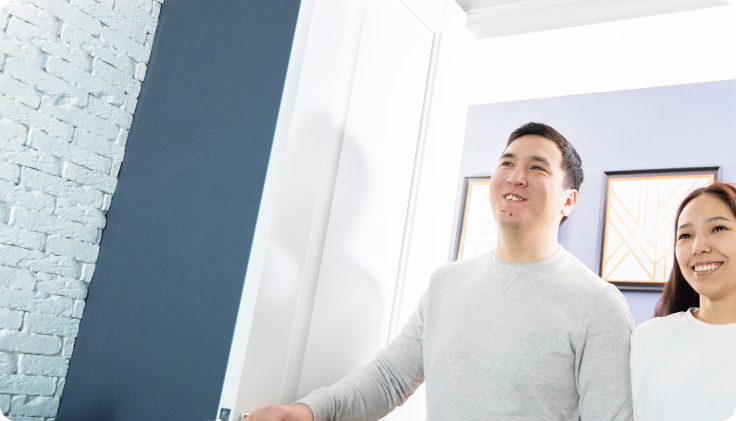
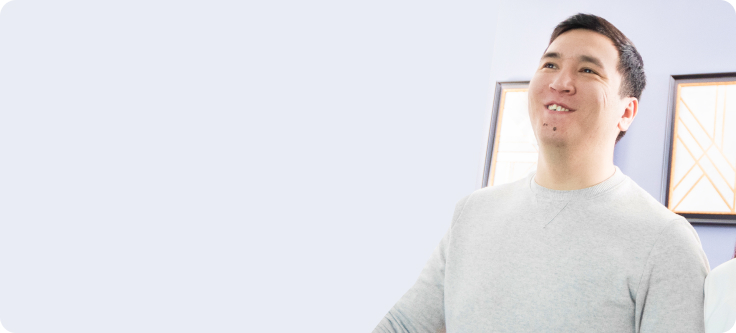
bonus html done

diff --git a/src/css/_media.scss b/src/css/_media.scss
@@ -118,6 +118,9 @@
         line-height: 45px;
     }
     .myremont{
+        &__accordions-item{
+            padding: 16px;
+        }
         &__inner{
             display: block;
         }
@@ -126,6 +129,24 @@
             width: 100%;
             min-width: unset;
             padding: 0;
+            &::-webkit-scrollbar-thumb {
+            background: #DDDFE5;
+            border-radius: 4px;
+            }
+    
+            &::-webkit-scrollbar-corner {
+                border-radius: 4px;
+            }
+    
+            &::-webkit-scrollbar-track {
+                border-radius: 4px;
+                background: #F6F6F9;
+            }
+    
+            &::-webkit-scrollbar {
+                height: 6px;
+                border-radius: 4px;
+            }
             &-list{
                 width: max-content;
                 padding: 15px;
@@ -346,16 +367,6 @@
     }
     .banners{
         &__slider{
-            &::after{
-                content: '';
-                width: 100%;
-                height: 100%;
-                position: absolute;
-                left: 0;
-                top: 0;
-                background: linear-gradient(84.2deg, rgba(33, 52, 69, 0.7) 23.77%, rgba(33, 52, 69, 0) 81.09%);
-                border-radius: 16px;
-            }
             .slider-arrow{
                 position: absolute;
                 right: 40px;
@@ -369,13 +380,11 @@
                 }
             }
             &-item{
-                color: #FFF;
                 .title{
                     margin-bottom: 8px;
                 }
                 p{
                     max-width: 385px;
-                    color: #FFF;
                     font-size: 18px;
                     line-height: 27px;
                 }
@@ -633,6 +642,17 @@
     }
 }
 @media (max-width: 600px){
+    .banners{
+        &__slider{
+            &-item{
+                background-color: #E9ECF4;
+            }
+            &-image{
+                display: none;
+            }
+        }
+    }
+
     .b-title{
         font-size: 20px;
         line-height: 25px;
@@ -772,6 +792,7 @@
             bottom: 0;
             left: 0;
             margin-top: 0;
+            display: table !important;
         }
     }
 }
@@ -958,6 +979,16 @@
 }
 
 @media (max-width: 425px){
+    .myremont{
+        &__accordions{
+            &-item{
+                .accordion-btn{
+                    font-size: 16px;
+                    line-height: 20px;
+                }
+            }
+        }
+    }
     .chooseplan{
         &__form{
             &-row{
@@ -1058,21 +1089,13 @@
     .banners{
         &__slider{
             padding-bottom: 48px;
-            &::after{
-                height: calc(100% - 48px);
-            }
             &-item{
+                display: flex;
+                flex-direction: column;
                 padding: 16px;
                 .title{
-                    font-size: 18px;
-                    line-height: 25px;
-                }
-                p{
-                    font-size: 16px;
-                    line-height: 24px;
-                }
-                .button{
-                    margin-top: 0;
+                    font-size: 20px;
+                    line-height: 28px;
                 }
             }
             .slider-arrow{

diff --git a/src/css/main.scss b/src/css/main.scss
@@ -2566,6 +2566,24 @@
     }
     &__wrapper{
         overflow-x: auto;
+        &::-webkit-scrollbar-thumb {
+        background: #DDDFE5;
+        border-radius: 4px;
+        }
+
+        &::-webkit-scrollbar-corner {
+            border-radius: 4px;
+        }
+
+        &::-webkit-scrollbar-track {
+            border-radius: 4px;
+            background: #F6F6F9;
+        }
+
+        &::-webkit-scrollbar {
+            height: 6px;
+            border-radius: 4px;
+        }
     }
     .blue-link{
         font-weight: 400;

diff --git a/src/home.html b/src/home.html
@@ -14,7 +14,6 @@
                         <div class="banners__slider-item">
                             <div class="banners__slider-image">
                                 <picture>
-                                    <source srcset="images/banners-bg425.jpg" media="(max-width: 425px)">
                                     <source srcset="images/banners-bg1023.jpg" media="(max-width: 1024px)">
                                     <img src="images/banners-bg.jpg" alt="">
                                 </picture>
